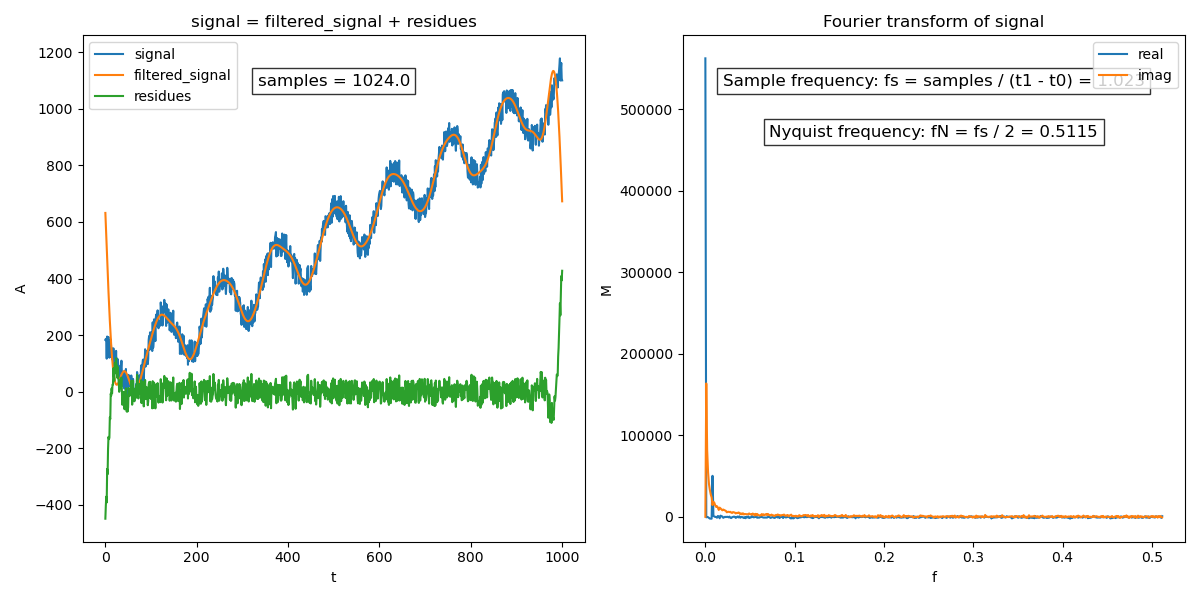
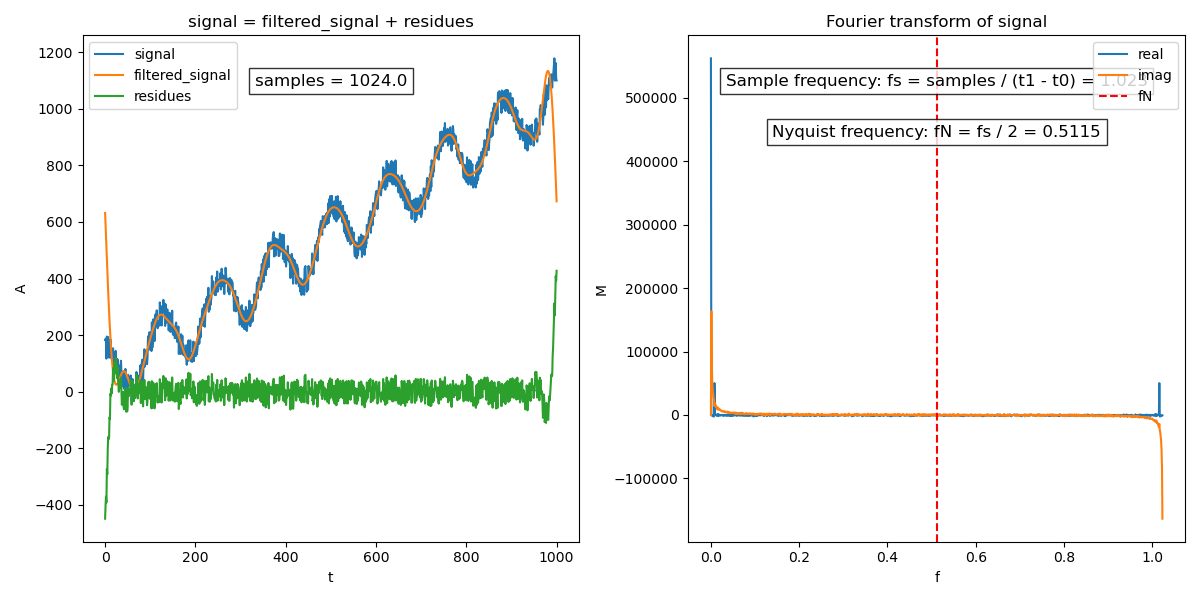
Nyquist frequency

diff --git a/filter/plot.py b/filter/plot.py
@@ -75,10 +75,12 @@ if __name__ == "__main__":
     # Fourier transform
     freq0: float = dom[2]
     freq1: float = dom[3]
-    f = np.linspace(freq0, freq1 / 2, len(signal) // 2)
+    f = np.linspace(freq0, freq1, len(signal))
 
-    ax[1].plot(f, fourier_transform_real[:len(signal) // 2], label='real')
-    ax[1].plot(f, fourier_transform_imag[:len(signal) // 2], label='imag')
+    ax[1].plot(f, fourier_transform_real, label='real')
+    ax[1].plot(f, fourier_transform_imag, label='imag')
+
+    ax[1].axvline(x=freq1 / 2, color='r', linestyle='--', label='fN')
 
     ax[1].set_title(f'Fourier transform of signal')
     ax[1].set_xlabel('f')
